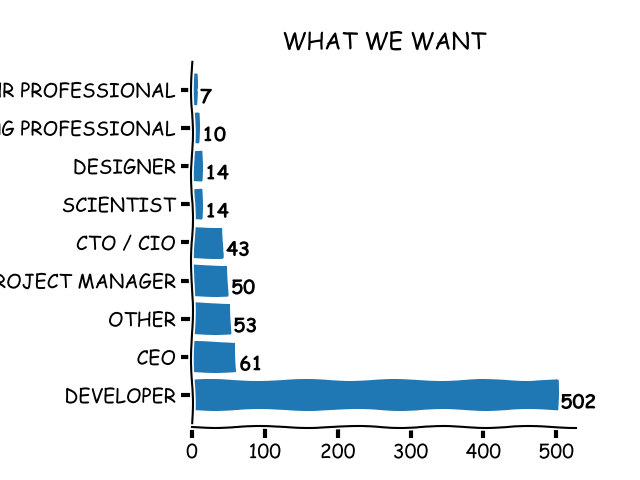
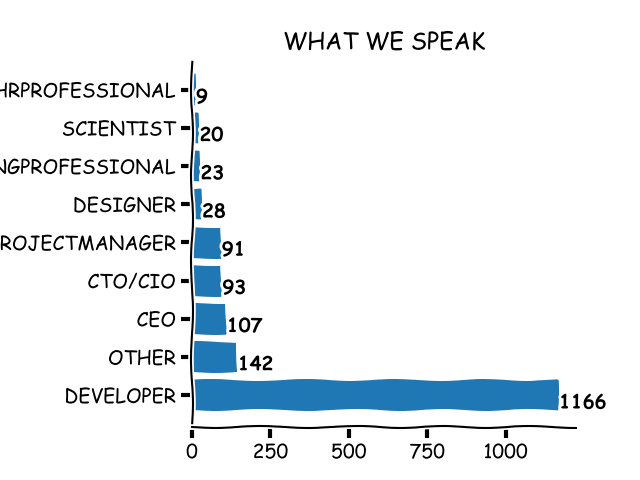
Last update

diff --git a/0what/what.py b/0what/what.py
@@ -14,7 +14,7 @@ wb = load_workbook(file)
 ws = wb[wsName]
 
 # column 22 for languages, 31 for countries
-colVal=22
+colVal=64
 # when you have multiple operations you might want to have only a subset, like the
 # first 1000 rows
 # rowmax=1000
@@ -32,8 +32,8 @@ for i in range(2, rowmax):
 #counting the languages while removing the duplicates
 lang2={x:interests.count(x) for x in interests}
 # Getting the Top 10 or more
-lang = dict(sorted(lang2.items(), key=itemgetter(1), reverse=True)[:10])
-
+lang = dict(sorted(lang2.items(), key=itemgetter(1), reverse=True)[:30])
+print(lang)
 
 # let's print that - xkcd style
 with plt.xkcd():
@@ -43,12 +43,12 @@ with plt.xkcd():
     ax.spines['right'].set_color('none')
     ax.spines['top'].set_color('none')
     plt.gcf().subplots_adjust(left=0.3)
-    plt.title("WHAT WE WANT")
+    plt.title("WHAT WE SPEAK")
     plt.rcParams.update({'figure.autolayout': True})
     plt.barh(range(len(lang)),list(lang.values()),align='center')
     # display values next to bars
-    #for i, v in enumerate(list(lang.values())):
-    #    ax.text(v + 4, i-.35, str(v), fontweight='bold')
+    for i, v in enumerate(list(lang.values())):
+        ax.text(v + 4, i-.35, str(int(v*100/rowmax)), fontweight='bold')
     plt.yticks(range(len(lang)),list(lang.keys()))
     # plt.show()
     fig.savefig('report'+str(colVal)+'.png')
